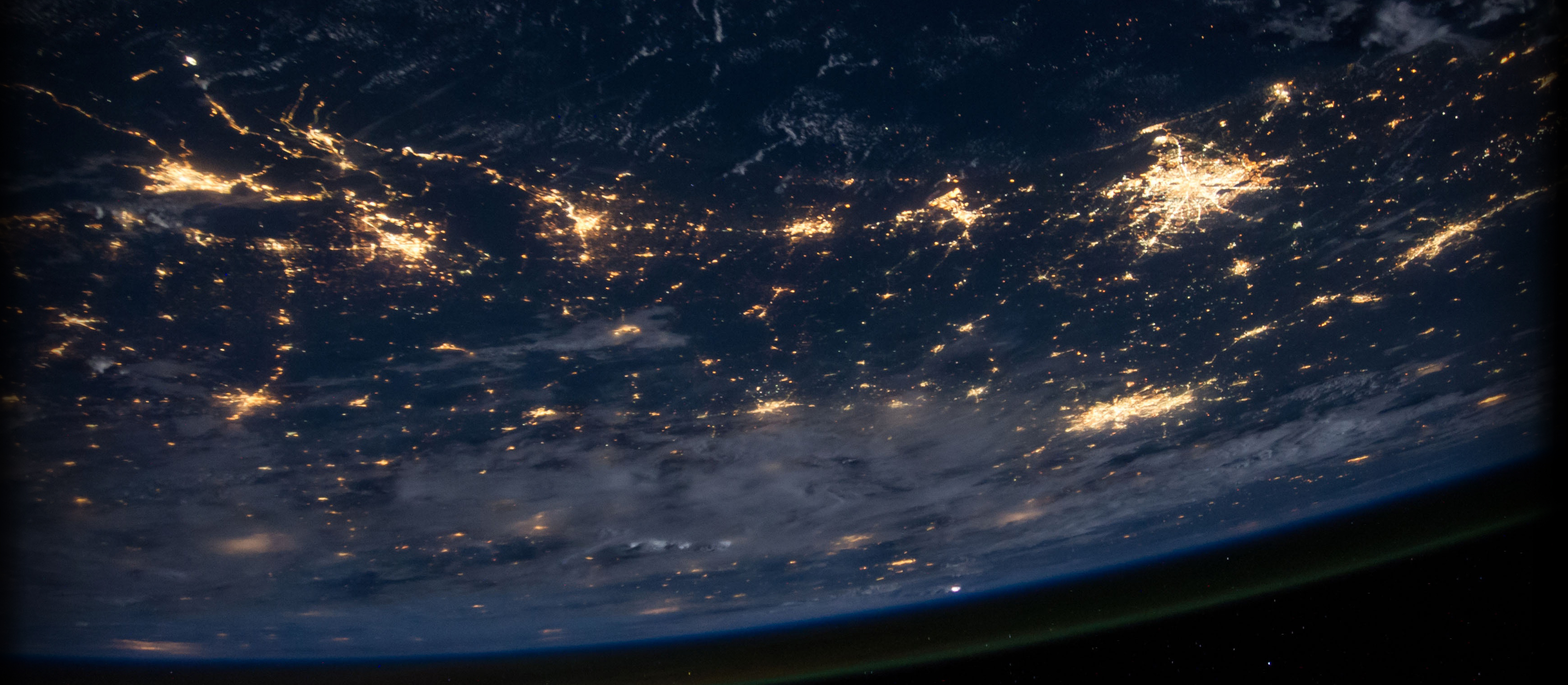
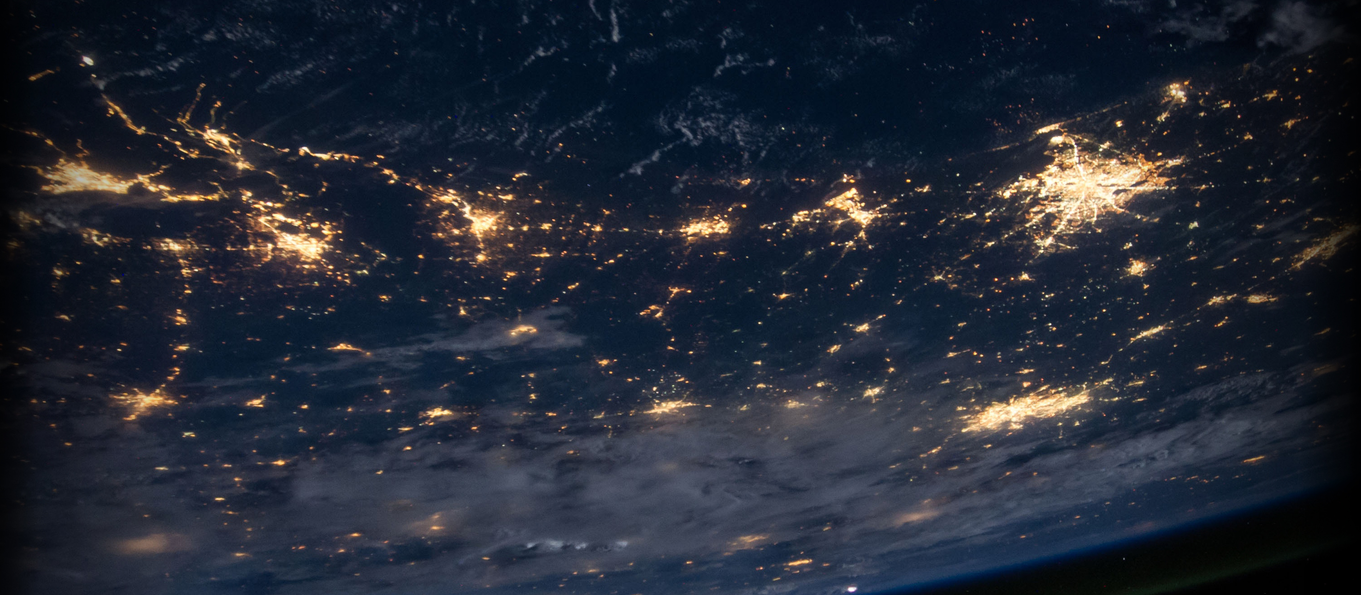
test max-width 1600px home-bg

diff --git a/css/base.css b/css/base.css
@@ -377,14 +377,15 @@ nav {
     padding: 5px; }
 
 .main {
+  max-width: 1600px;
+  margin: 0 auto;
   background-image: url(../img/home_page_bg.jpg);
   background-position: top;
   background-repeat: no-repeat;
   background-size: 100% 50%; }
 
 .content {
-  background: -webkit-gradient(linear, left top, left bottom, color-stop(1%, rgba(10, 2, 4, 0)), color-stop(21%, #0a0204), color-stop(50%, #0a0204), color-stop(58%, black));
-  background: linear-gradient(to bottom, rgba(10, 2, 4, 0) 1%, #0a0204 21%, #0a0204 50%, black 58%); }
+  background-color: black; }
 
 .card-body-top,
 .card-body-bottom {
@@ -618,4 +619,5 @@ footer {
 
   .carousel {
     display: none; } }
+
 /*# sourceMappingURL=base.css.map */

diff --git a/css/_home.scss b/css/_home.scss
@@ -7,11 +7,13 @@
 }
 
 .main {
+  max-width: 1600px;
+  margin: 0 auto;
   @include bg(url(../img/home_page_bg.jpg),$bs: 100% 50%);
 }
 
 .content {
-  background: linear-gradient(to bottom, rgba(10,2,4,0) 1%,rgba(10,2,4,1) 21%,rgba(10,2,4,1) 50%,rgba(0,0,0,1) 58%);
+  background-color: black;
 }
 
 .card-body-top,

diff --git a/templates/home.html b/templates/home.html
@@ -3,7 +3,7 @@
 {% block content %}
 <div class="content ">
     {% include 'carousel.html' %}
-    <div class="container-fluid main">
+    <div class="main">
         <br>
         <div class="container text-center home-page">
             {% for card in tableview %}
